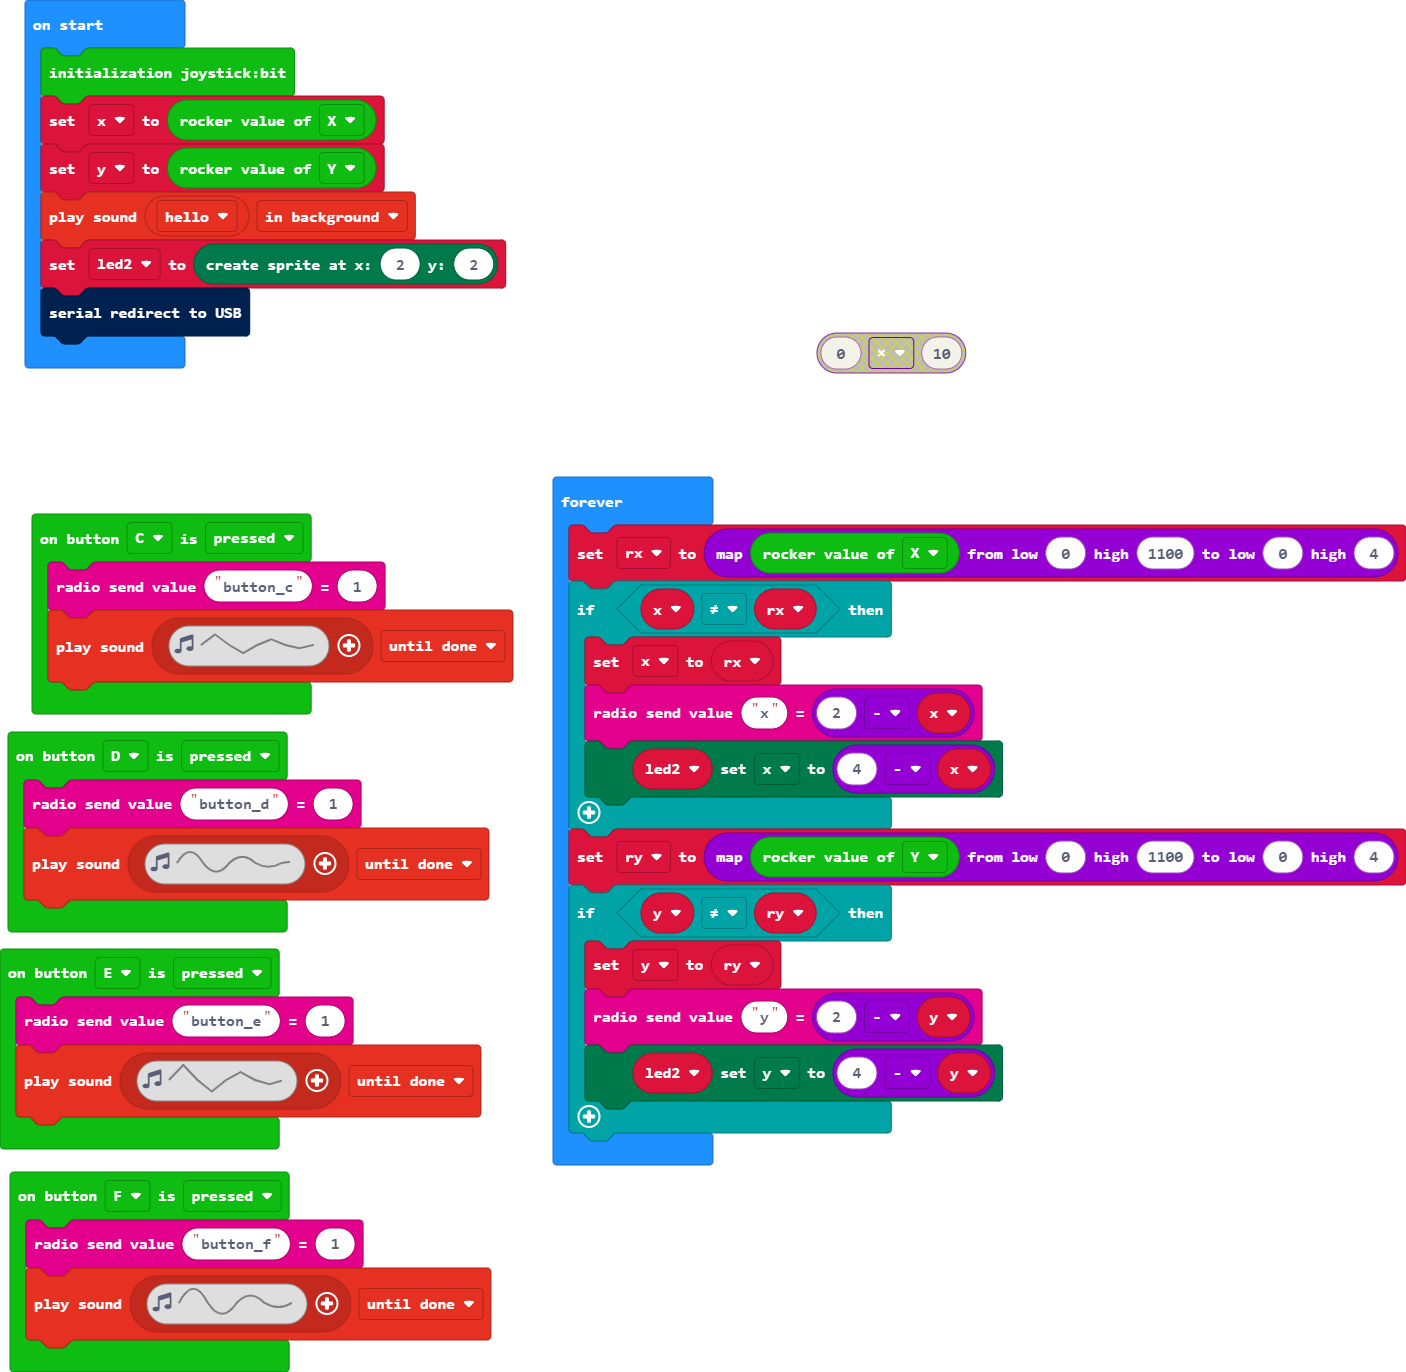
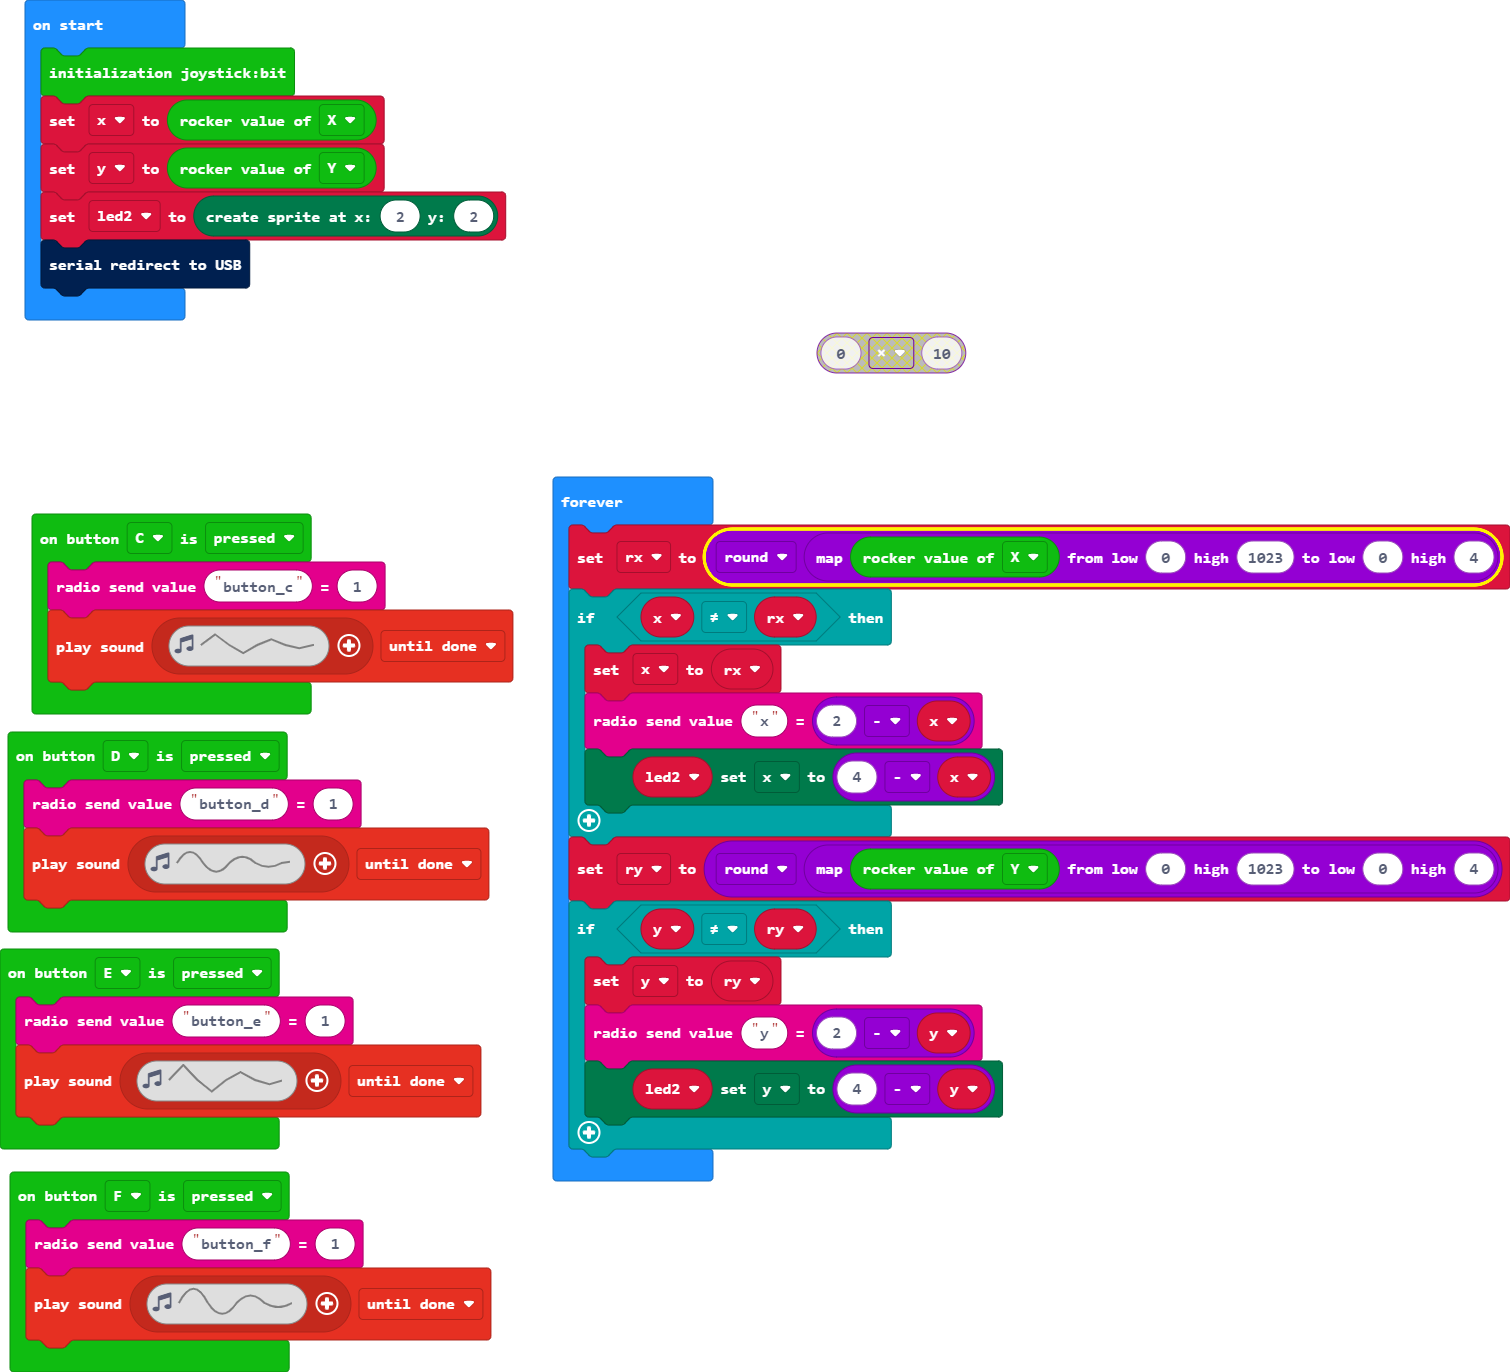
Update main.blocks, main.ts

Changed region(s): [[0.0, 0.3367, 1.0, 1.0], [0.0, 0.0, 0.367, 0.2755], [0.5199, 0.2449, 0.7034, 0.2755]]

diff --git a/main.ts b/main.ts
@@ -19,17 +19,16 @@ let rx = 0
 joystickbit.initJoystickBit()
 let x = joystickbit.getRockerValue(joystickbit.rockerType.X)
 let y = joystickbit.getRockerValue(joystickbit.rockerType.Y)
-music.playSoundEffect(music.builtinSoundEffect(soundExpression.hello), SoundExpressionPlayMode.InBackground)
 let led2 = game.createSprite(2, 2)
 serial.redirectToUSB()
 basic.forever(function () {
-    rx = Math.map(joystickbit.getRockerValue(joystickbit.rockerType.X), 0, 1100, 0, 4)
+    rx = Math.round(Math.map(joystickbit.getRockerValue(joystickbit.rockerType.X), 0, 1023, 0, 4))
     if (x != rx) {
         x = rx
         radio.sendValue("x", 2 - x)
         led2.set(LedSpriteProperty.X, 4 - x)
     }
-    ry = Math.map(joystickbit.getRockerValue(joystickbit.rockerType.Y), 0, 1100, 0, 4)
+    ry = Math.round(Math.map(joystickbit.getRockerValue(joystickbit.rockerType.Y), 0, 1023, 0, 4))
     if (y != ry) {
         y = ry
         radio.sendValue("y", 2 - y)
